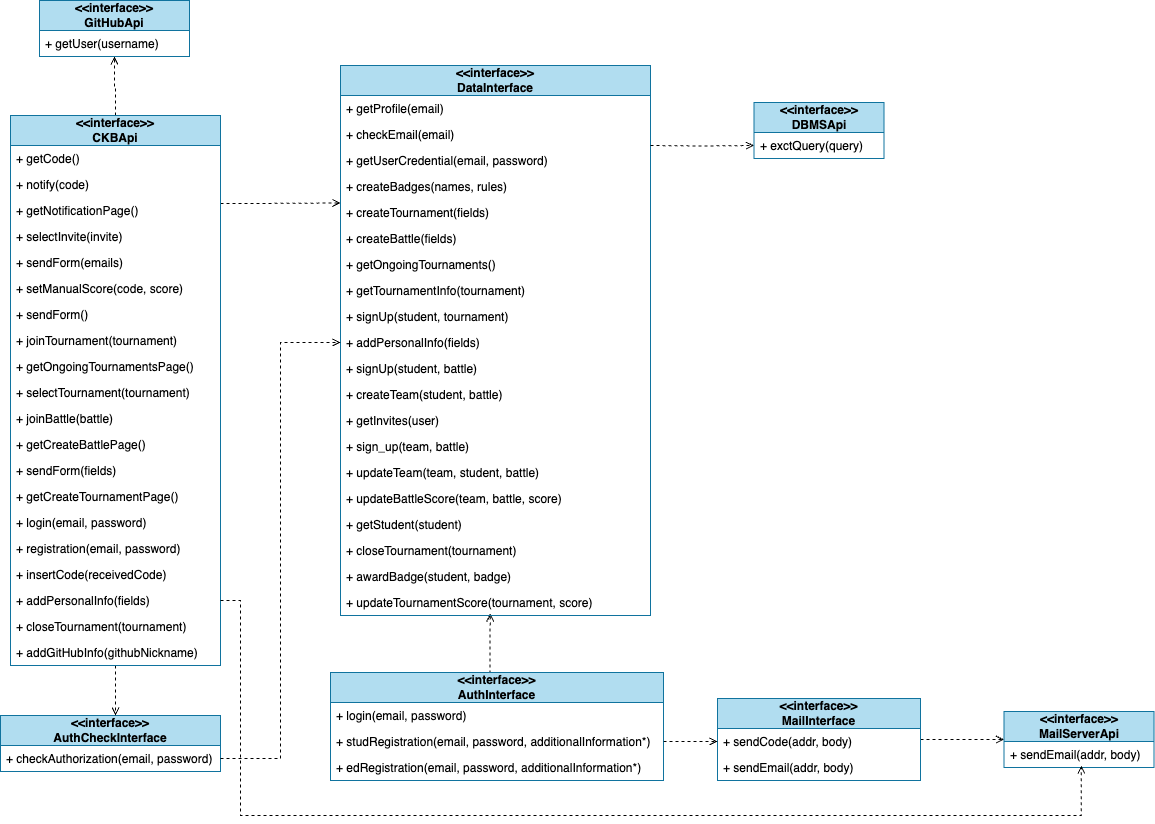
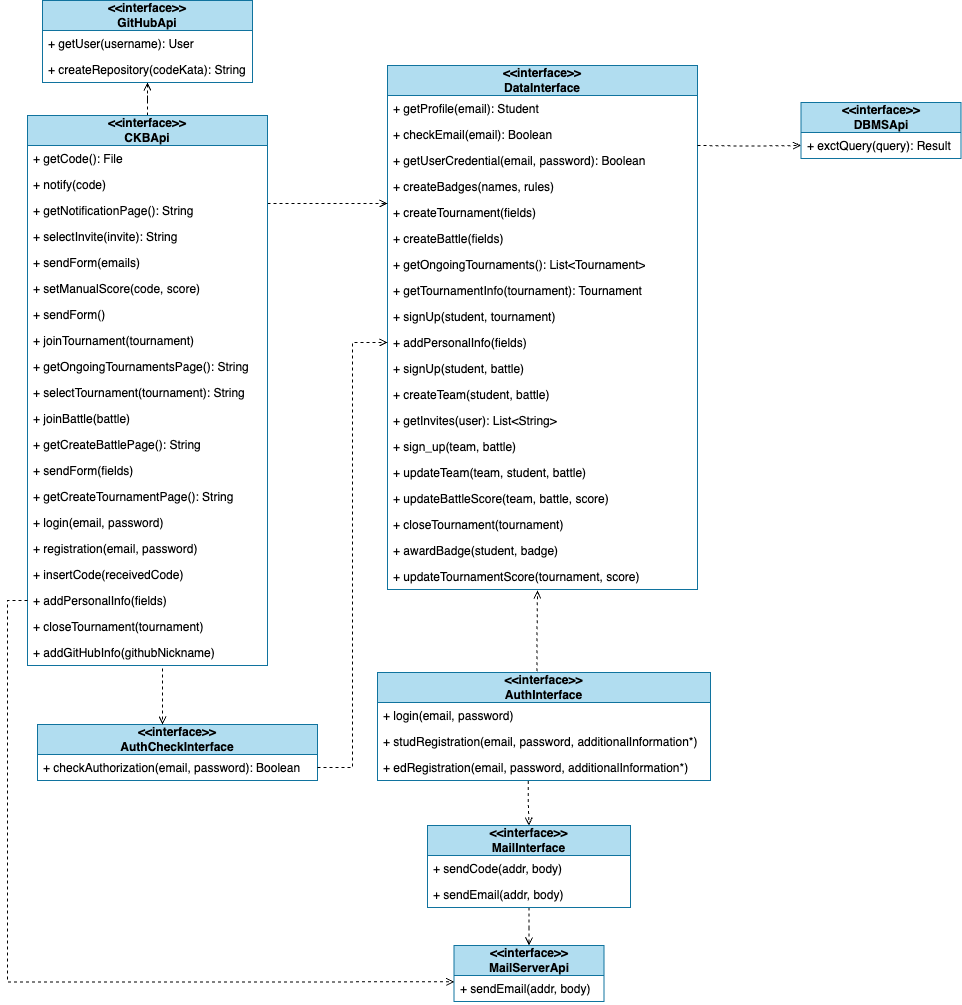
Updated UML class diagram and interface diagram

diff --git a/RASD/chapters/02_overall_description.tex b/RASD/chapters/02_overall_description.tex
@@ -63,11 +63,26 @@ scenariosand diagrams illustrating further details about shared phenomenas.\\
 \end{enumerate}
 
 \subsection{Class diagrams}
-The UML class diagram below represents a conceptual, high-level model of the software to be. 
-At this level, it not include any references to methods and other low-level details, those will be detailed during the design phase. \\
+The UML class diagram below represents a conceptual, high-level model of the system to be. 
+At this level, it does not include any references to methods and other low-level details, those will be detailed during the design phase. \\
+
+\begin{figure}[H]
+      \centering
+      \includegraphics[width=1\textwidth]{images/Class_Diagram.png}
+      \caption{Class diagram}
+\end{figure}
+
 The main entities in the diagram are:
 \begin{itemize}
-    \item \textbf{User:} represents a user of the system.
+    \item \textbf{User:} represents an user of the system who can access to the platform with his credentials.
+    \item \textbf{Student:} represents a student, a particular type of user who can join tournaments and battles.
+    \item \textbf{Educator:} represents an educator, a particular type of user who can create tournaments, battles and badges.
+    \item \textbf{Tournament:} represents a tournament, a programming competition composed of various battles created by an educator.
+    \item \textbf{Battle:} represents a battle with a specific code kata created by an educator, in which teams of students can compete.
+    \item \textbf{Team: } represents a group of students who can compete in a battle.
+    \item \textbf{Badge: } represents an award that educator can create for a tournament and assign to eligible students.
+    \item \textbf{CokeKata: } represents a programming exercise in a programming language chosen by its creator. 
+    It includes automation scripts and test cases.
 \end{itemize}
 
 \subsection{State diagrams}
